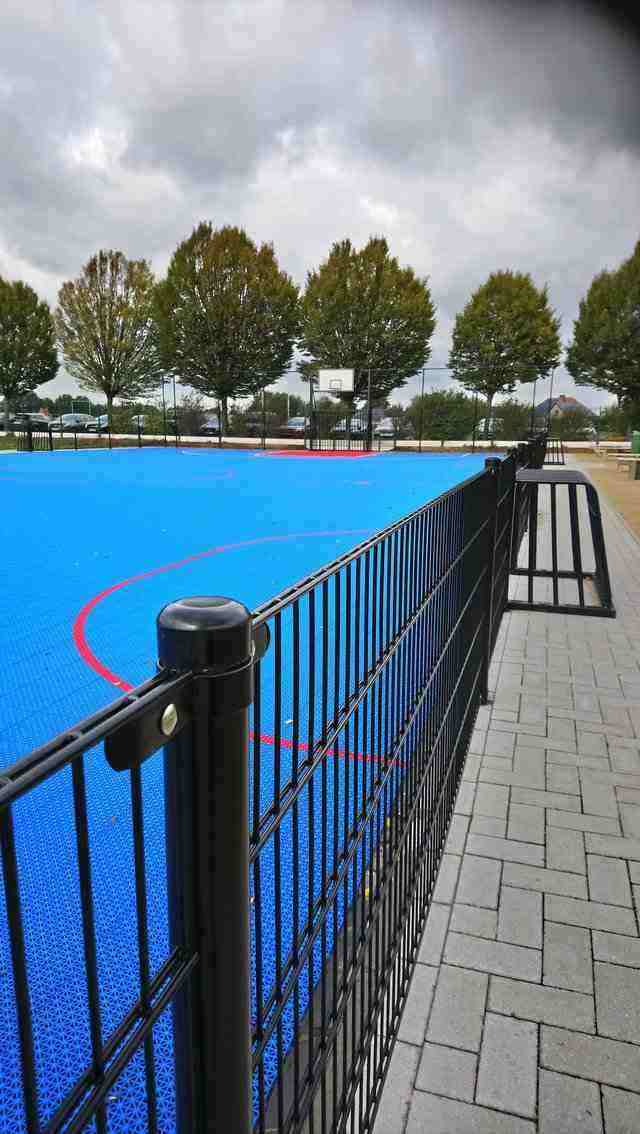
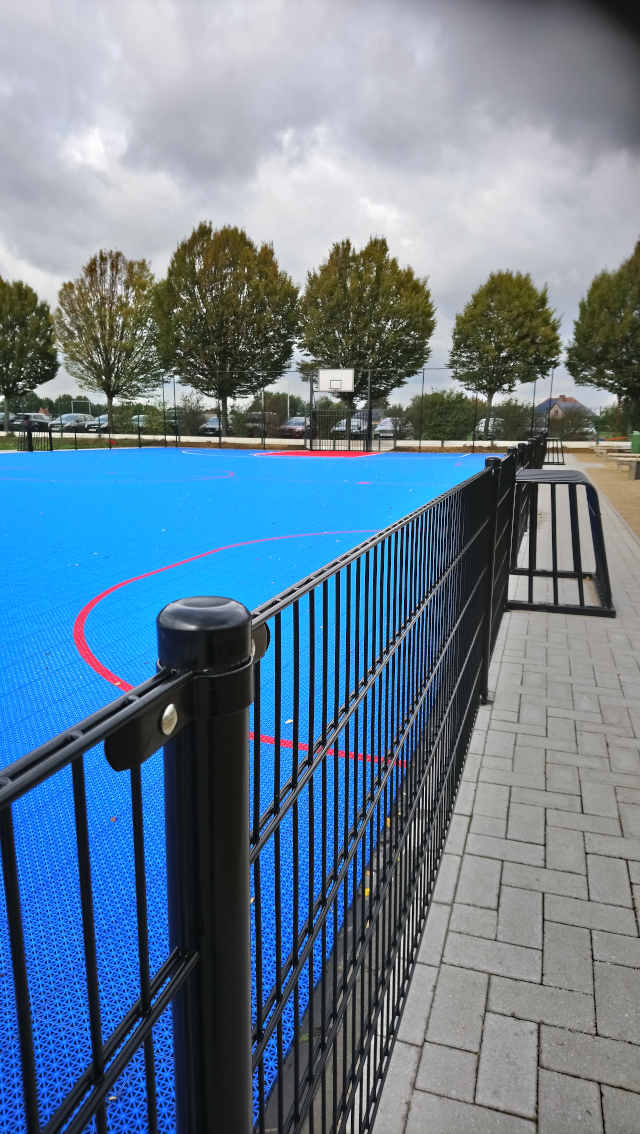
Skills2: kwaliteit afbeelding verbeterd + size <100kb; Skills3: Andere inhoud voor elke schermbreedte

diff --git a/webdesign/skills3/r0784084skills3.html b/webdesign/skills3/r0784084skills3.html
@@ -22,12 +22,12 @@
             </ul>
         </nav>
         <div>
-            <img src="afbeeldingen/basis.jpg" alt="goedkoop">
-            <img src="afbeeldingen/medium.jpg" alt="jong">
-            <img src="afbeeldingen/groot.jpg" alt="luxe">
+            <img src="afbeeldingen/basis.jpg" alt="goedkoop" class="d-md-none">
+            <img src="afbeeldingen/medium.jpg" alt="jong" class="d-none d-md-block d-lg-none">
+            <img src="afbeeldingen/groot.jpg" alt="luxe" class="d-none d-lg-block">
         </div>
         <article>
-            <div>
+            <div class="d-md-none">
                 <h2>Koop bij ons!</h2>
                 <p>Wie door de winkelstraten wandelt, herkent de winkels waar je met weinig centen erg veel kunt kopen, al van ver. Flitsende logo's, schreeuwerige banners, alles wordt ingezet in de strijd om de consument die op zijn centen zit.</p>
                 <p>In dit hele marketingverhaal komen dezelfde kleuren telkens weer voor: knalrood, knalgeel en knalblauw zetten consumenten aan tot kopen. Een rood actielabel overtuigt ons dubbel van de buitenkans. Wie niet snel is, loopt een buitenkansje mis.</p>
@@ -36,7 +36,7 @@
             </div>
         </article>
         <article>
-            <div>
+            <div class="d-none d-md-block d-lg-none">
                 <h2>Start to game</h2>
                 <div>
                     <p>Een computerspel of in het Engels en omgangstaal ook wel game genoemd, is een elektronisch spel dat op een computer, console of handheld gespeeld wordt. Steeds vaker zijn deze spellen ook voor andere systemen en computers, zoals pda's, mobiele telefoons, tablets en draagbare spelcomputers verkrijgbaar. Veel computerspellen zijn videospellen. "Spel" wordt hier in de ruime zin van het woord gebruikt, er zijn ook serious games. </p>
@@ -46,7 +46,7 @@
 
         </article>
         <article>
-            <div>
+            <div class="d-none d-lg-block">
                 <h2>Voor wie valt voor pure luxe...</h2>
                 <div>
                     <div>

diff --git a/webdesign/skills3/stijlen/r0784084.css b/webdesign/skills3/stijlen/r0784084.css
@@ -1,0 +1,3 @@
+.koopbijons {
+    
+}
